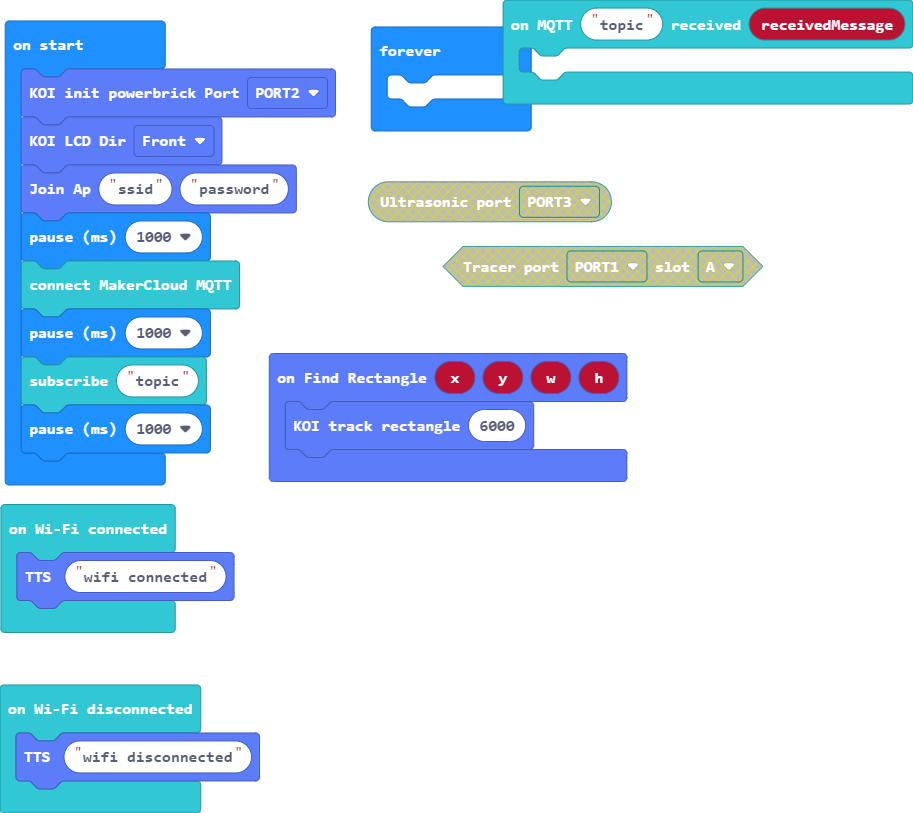
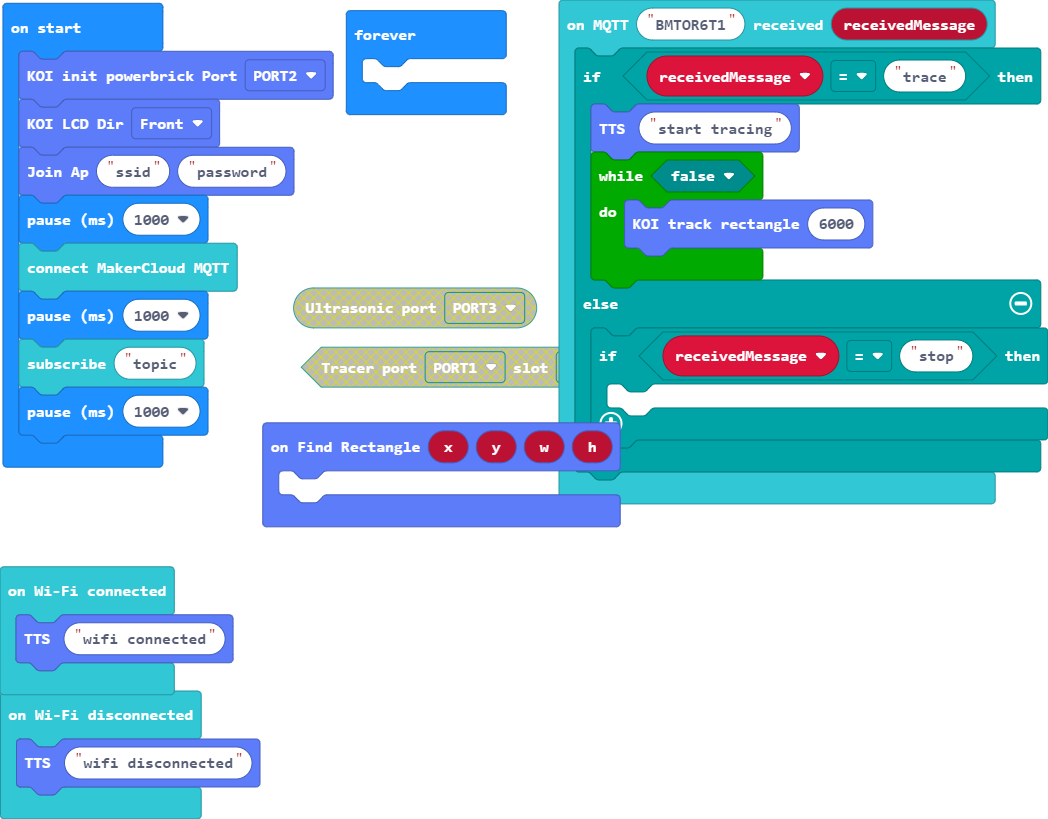
Update main.blocks, main.ts

diff --git a/main.ts b/main.ts
@@ -4,10 +4,19 @@ MakerCloud.on_wifi_disconnected(function () {
 MakerCloud.on_wifi_connected(function () {
     koi.koi_cloud_tts("wifi connected")
 })
-koi.koi_onrecttrack(function (x, y, w, h) {
-    koi.koi_track_rect(6000)
+MakerCloud_KOI.registerTopicMessageHandler("BMTOR6T1", function (receivedMessage) {
+    if (receivedMessage == "trace") {
+        koi.koi_cloud_tts("start tracing")
+        while (false) {
+            koi.koi_track_rect(6000)
+        }
+    } else {
+        if (receivedMessage == "stop") {
+        	
+        }
+    }
 })
-MakerCloud_KOI.registerTopicMessageHandler("topic", function (receivedMessage) {
+koi.koi_onrecttrack(function (x, y, w, h) {
 	
 })
 koi.koi_init_pw(koi.SerialPorts.PORT2)
